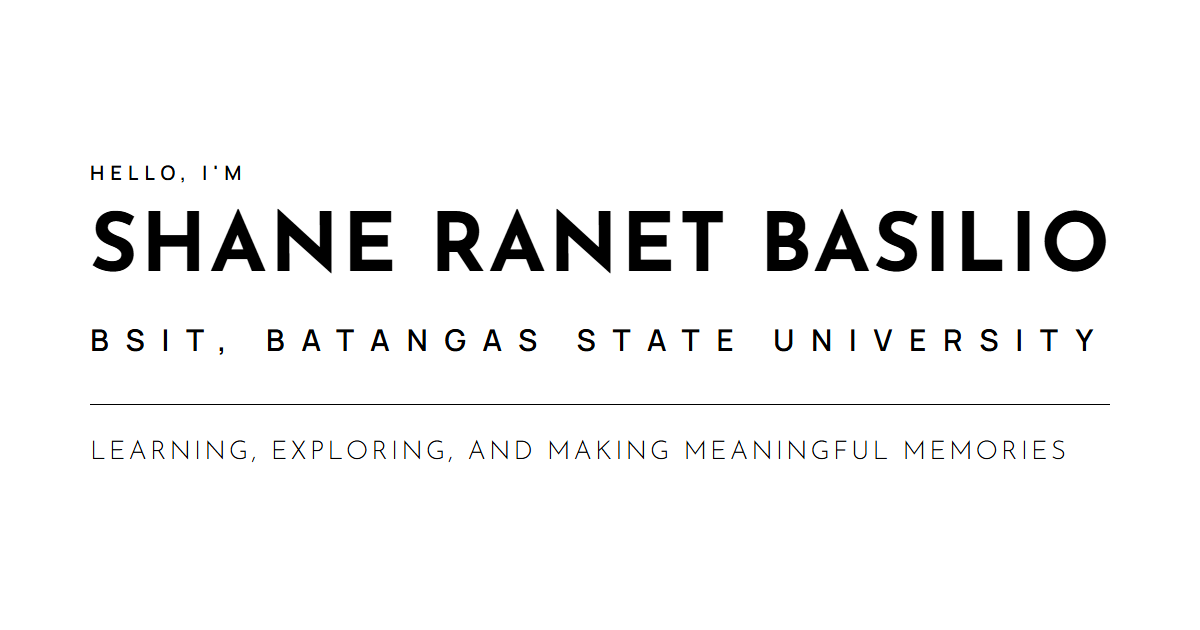
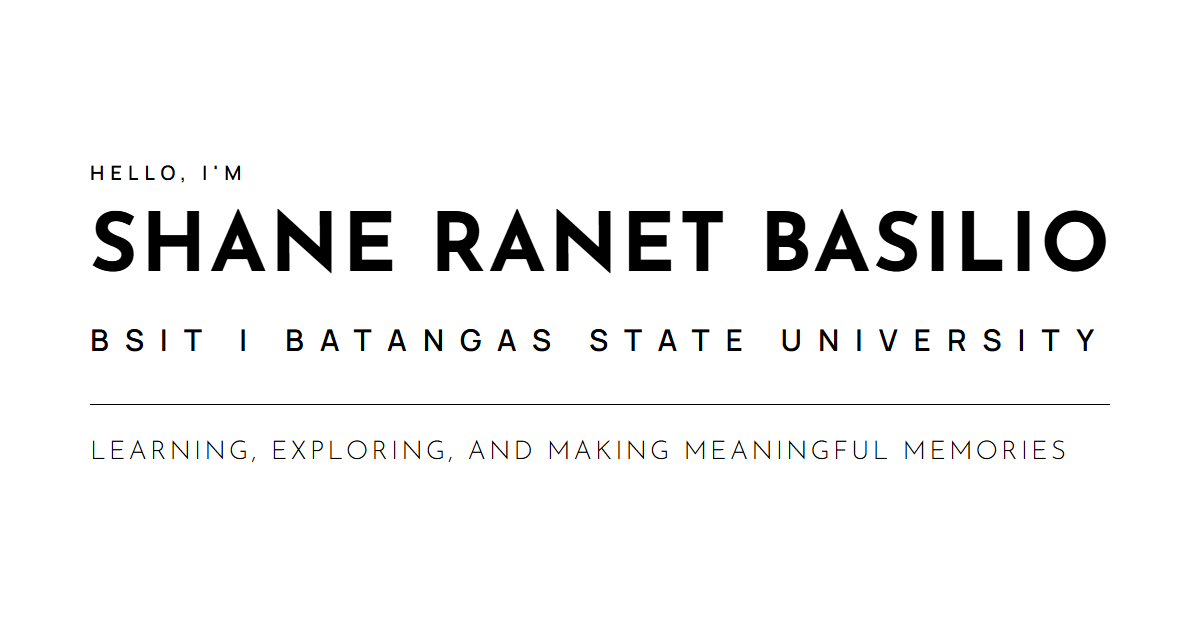
content: use pipe separator in hero line
Claude-Session: https://claude.ai/code/session_01799v2dwjezjUvHMM98emAe

Changed region(s): [[0.2158, 0.5127, 0.6167, 0.573], [0.6475, 0.5127, 0.925, 0.573], [0.0925, 0.5127, 0.185, 0.573]]

diff --git a/index.html b/index.html
@@ -51,7 +51,7 @@
             <span class="hello rise">Hello, I'm</span>
             <div class="lockup rise">
                 <h1 id="heroName">Shane Ranet Basilio</h1>
-                <p class="lockup-sub" id="heroSub">BSIT, Batangas State University</p>
+                <p class="lockup-sub" id="heroSub">BSIT | Batangas State University</p>
             </div>
             <p class="tagline rise">A first-year Information Technology student who enjoys learning, exploring, and making meaningful memories.</p>
             <div class="hero-actions rise">

diff --git a/og-card.html b/og-card.html
@@ -17,7 +17,7 @@
 <div class="card">
     <div class="hello">Hello, I'm</div>
     <h1 id="n">Shane Ranet Basilio</h1>
-    <div class="sub" id="s">BSIT, Batangas State University</div>
+    <div class="sub" id="s">BSIT | Batangas State University</div>
     <hr>
     <div class="tag">Learning, exploring, and making meaningful memories</div>
 </div>
